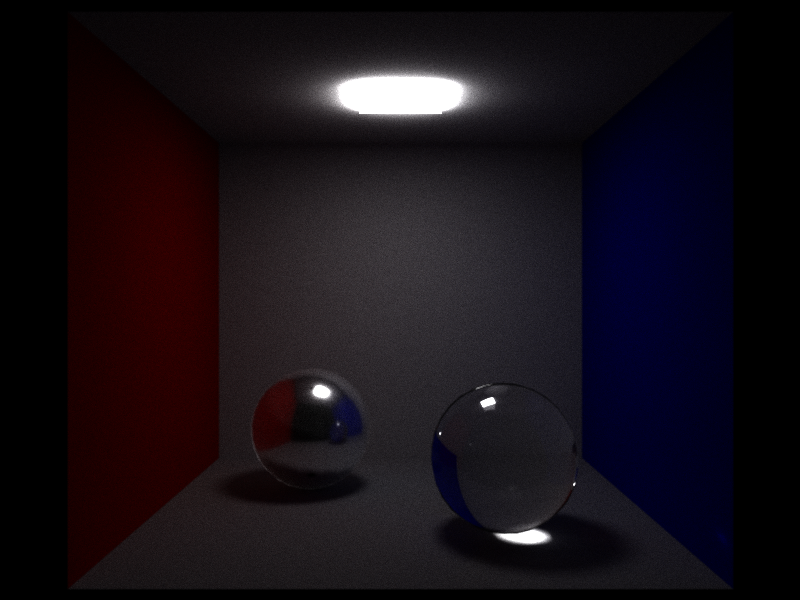
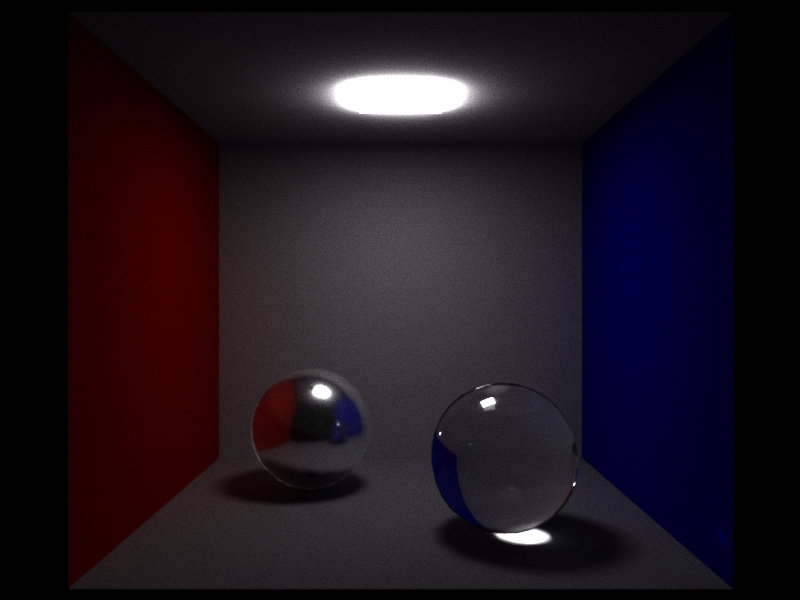
20K

diff --git a/CVMCTracer/CVMCTracer/main.cpp b/CVMCTracer/CVMCTracer/main.cpp
@@ -10,11 +10,12 @@ int main()
 {
     PW::FileReader::ObjModel model;
     PWVector4f *hostcolor = new PWVector4f[IMG_HEIGHT * IMG_WIDTH]; // Width*Height
+    IplImage *img = nullptr;
 
 #ifdef RENDER_1
     model.readObj("Resources/scene01.obj");
     PW::Tracer::RenderScene(1, &model, hostcolor);
-    IplImage *img = cvCreateImage(cvSize(IMG_WIDTH, IMG_HEIGHT), IPL_DEPTH_8U, 3);
+    img = cvCreateImage(cvSize(IMG_WIDTH, IMG_HEIGHT), IPL_DEPTH_8U, 3);
     for (int i = 0; i < IMG_WIDTH; i++)
     {
         for (int j = 0; j < IMG_HEIGHT; j++)
@@ -26,12 +27,13 @@ int main()
     cvShowImage("result1", img);
     cvWaitKey(0);
     cvSaveImage("result1.png", img);
+    cvReleaseImage(&img);
 #endif // RENDER_1
 
 #ifdef RENDER_2
     model.readObj("Resources/scene02.obj");
     PW::Tracer::RenderScene(2, &model, hostcolor);
-    IplImage *img = cvCreateImage(cvSize(IMG_WIDTH, IMG_HEIGHT), IPL_DEPTH_8U, 3);
+    img = cvCreateImage(cvSize(IMG_WIDTH, IMG_HEIGHT), IPL_DEPTH_8U, 3);
     for (int i = 0; i < IMG_WIDTH; i++)
     {
         for (int j = 0; j < IMG_HEIGHT; j++)
@@ -43,6 +45,7 @@ int main()
     cvShowImage("result2", img);
     cvWaitKey(0);
     cvSaveImage("result2.png", img);
+    cvReleaseImage(&img);
 #endif // RENDER_2
 
     delete[] hostcolor;

diff --git a/CVMCTracer/CVMCTracer/stdafx.h b/CVMCTracer/CVMCTracer/stdafx.h
@@ -40,6 +40,6 @@ using PWVector4f = struct _PWVector4f
 
 const PWuint IMG_WIDTH = 800;
 const PWuint IMG_HEIGHT = 600;
-const PWuint NUM_SAMPLES = 5000;
+const PWuint NUM_SAMPLES = 20000;
 #define ILLUM 10
 #define PW_PI 3.14159265359f
